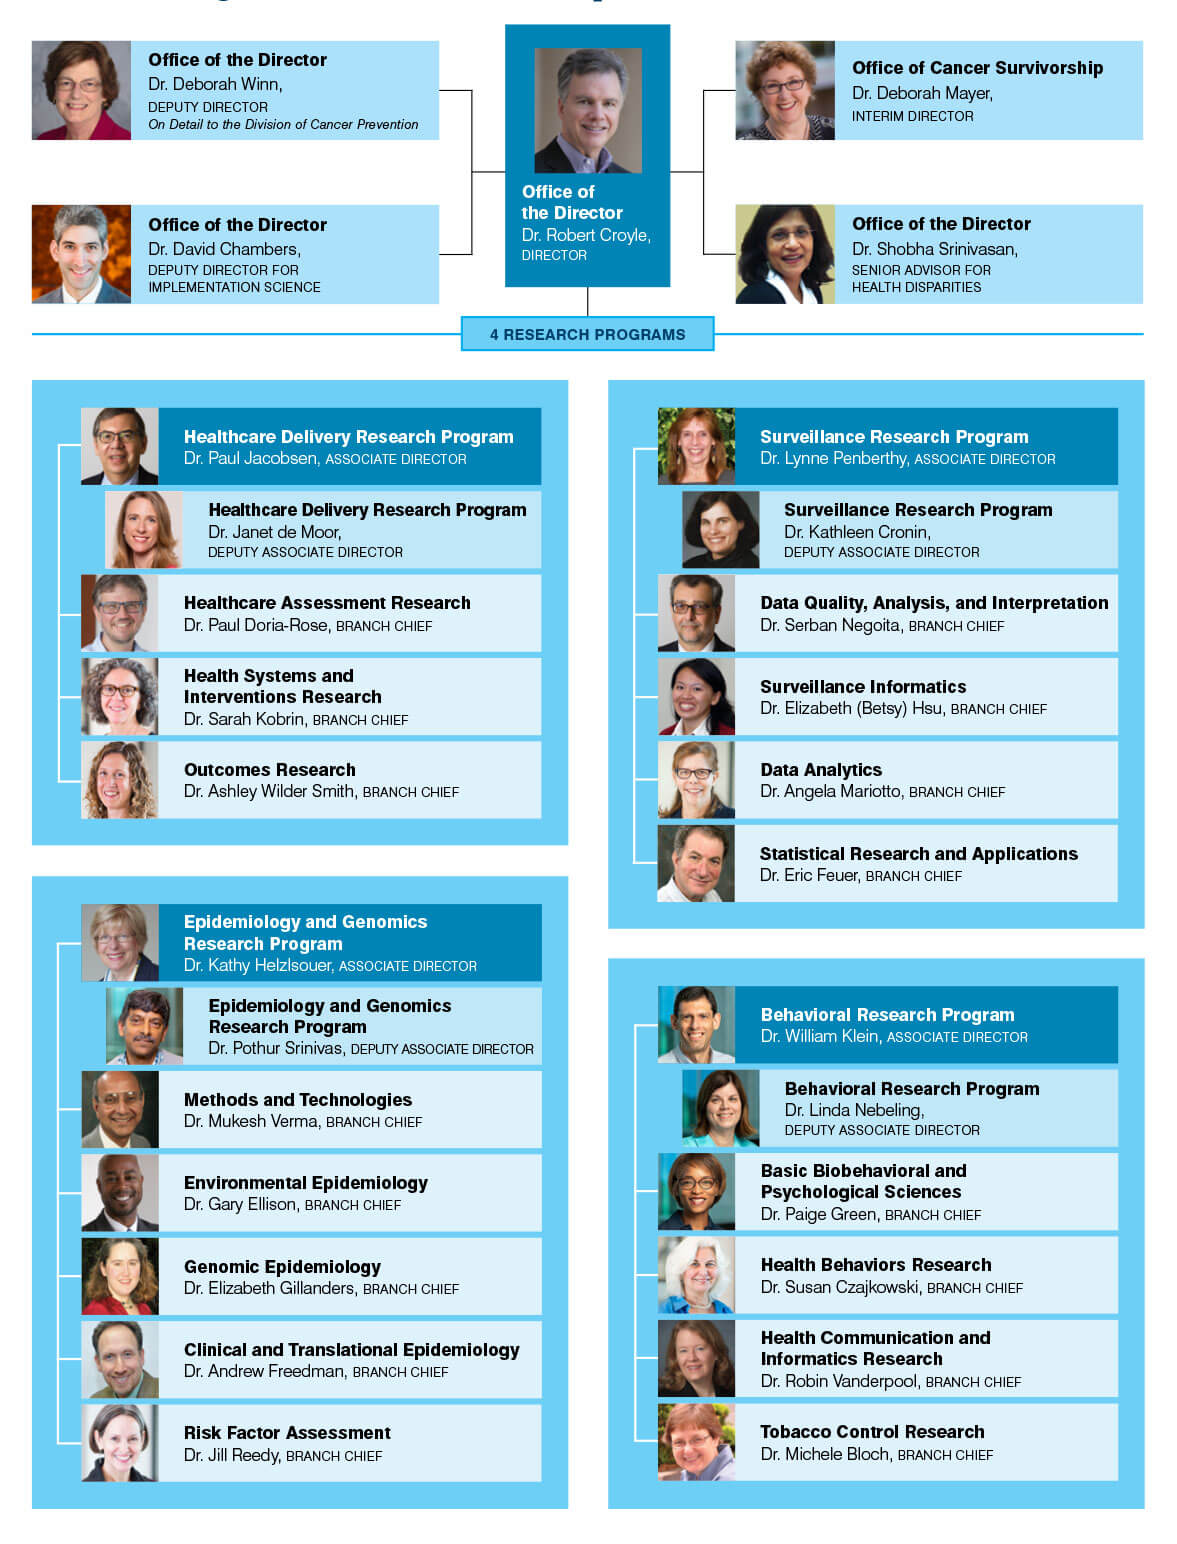
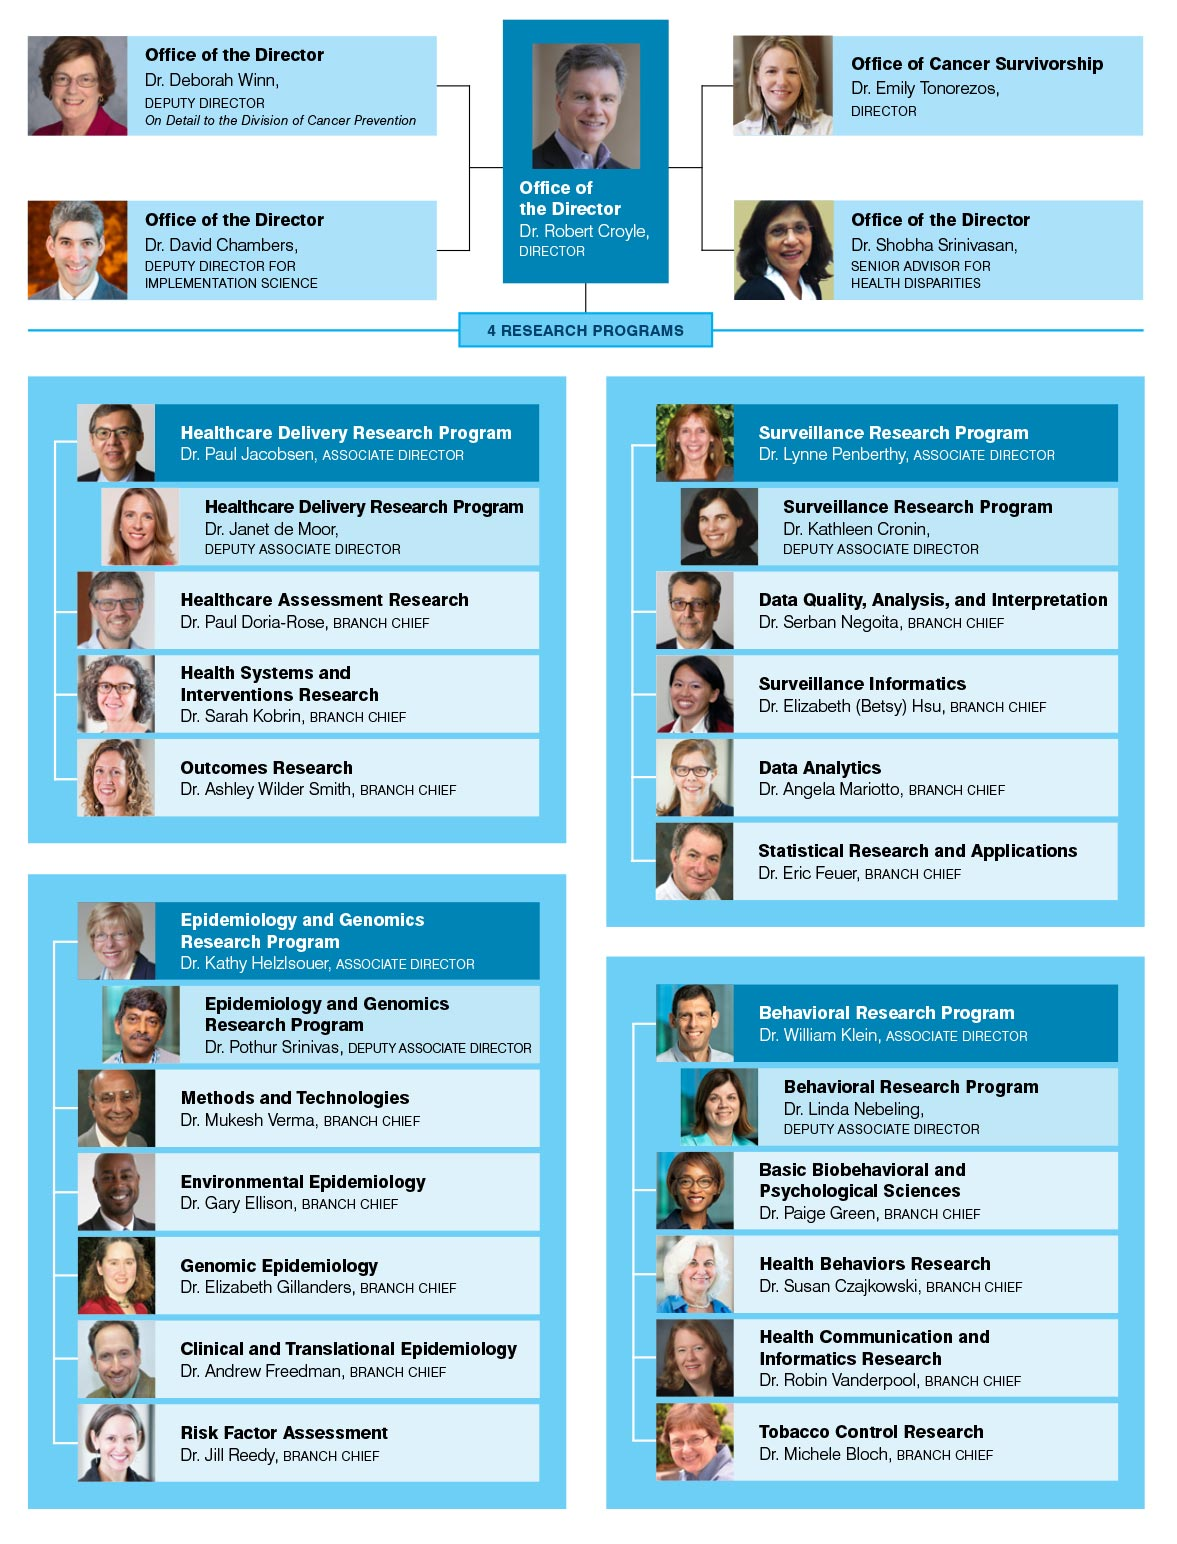
Minor OCS updates

Changed region(s): [[0.0, 0.0, 0.9788, 0.9637]]

diff --git a/index.html b/index.html
@@ -268,6 +268,13 @@ height="0" width="0" style="display:none;visibility:hidden" title="Google Tag Ma
 					<a class="previous-arrow"><span class="sr-only">Show the Previous Item</span></a>
 					<div class="whatsnew-boxes">
 						<div class="whatsnew-container-content">
+							<a href="/ocs/resources/news-announcement.html" class="box website">
+								<div class="whatsnew-content">
+									<h3>New OCS Director</h3>
+									<p class="description">Dr. Emily S. Tonorezos Named Director of NCI Office of Cancer Survivorship.</p>
+								</div>
+								<p class="date"><b>DATE:</b> August 2020</p>
+							</a>
 							<a href="https://www.cancer.gov/news-events/cancer-currents-blog/2020/ovarian-cancer-racial-disparities-studies" class="box website">
 								<div class="whatsnew-content">
 									<h3>Cancer Currents Blog</h3>
@@ -300,13 +307,6 @@ height="0" width="0" style="display:none;visibility:hidden" title="Google Tag Ma
 								<div class="whatsnew-content">
 									<h3>Featured Funding Opportunity</h3>
 									<p class="description">Competitive Revision SBIR/STTR Supplements on COVID-19.</p>
-								</div>
-								<p class="date"><b>DATE:</b> April 2020</p>
-							</a>
-							<a href="https://grants.nih.gov/grants/guide/notice-files/NOT-CA-20-050.html" class="box website">
-								<div class="whatsnew-content">
-									<h3>Featured Funding Opportunity</h3>
-									<p class="description">Research to Reduce Morbidity and Improve Care for Pediatric, and Adolescent and Young Adult (AYA) Cancer Survivors. <br>Pre-application Webinar will be held on May 12<sup>th</sup>.</p>
 								</div>
 								<p class="date"><b>DATE:</b> April 2020</p>
 							</a>

diff --git a/od/orgchart.html b/od/orgchart.html
@@ -274,7 +274,7 @@ height="0" width="0" style="display:none;visibility:hidden" title="Google Tag Ma
 				<area shape="rect" coords="49,678,404,741" href="https://epi.grants.cancer.gov/oad/" alt="Epidemiology &amp; Genomics Research Program - Kathy Helzlsouer, M.D., M.H.S., associate director">
 				<area shape="rect" coords="7,23,323,103" href="dep_director_dw.html" alt="Deputy Director Dr. Deborah M. Winn, On Detail to the Division of Cancer Prevention">
 				<area shape="rect" coords="373,10,505,217" href="view_rtc.html" alt="Officer of the Director Dr. Robert T Croyle, Director">
-				<area shape="rect" coords="551,26,865,103" href="/ocs/about/director-page.html" alt="Office of Cancer Survivorship - Dr. Deborah K. Mayer, Interim Director">
+				<area shape="rect" coords="551,26,865,103" href="/ocs/about/director-page.html" alt="Office of Cancer Survivorship - Dr. Emily Tonorezos, Director">
 			</map>
 		<!-- InstanceEndEditable -->
         </div> <!-- /.col-md-9 -->
